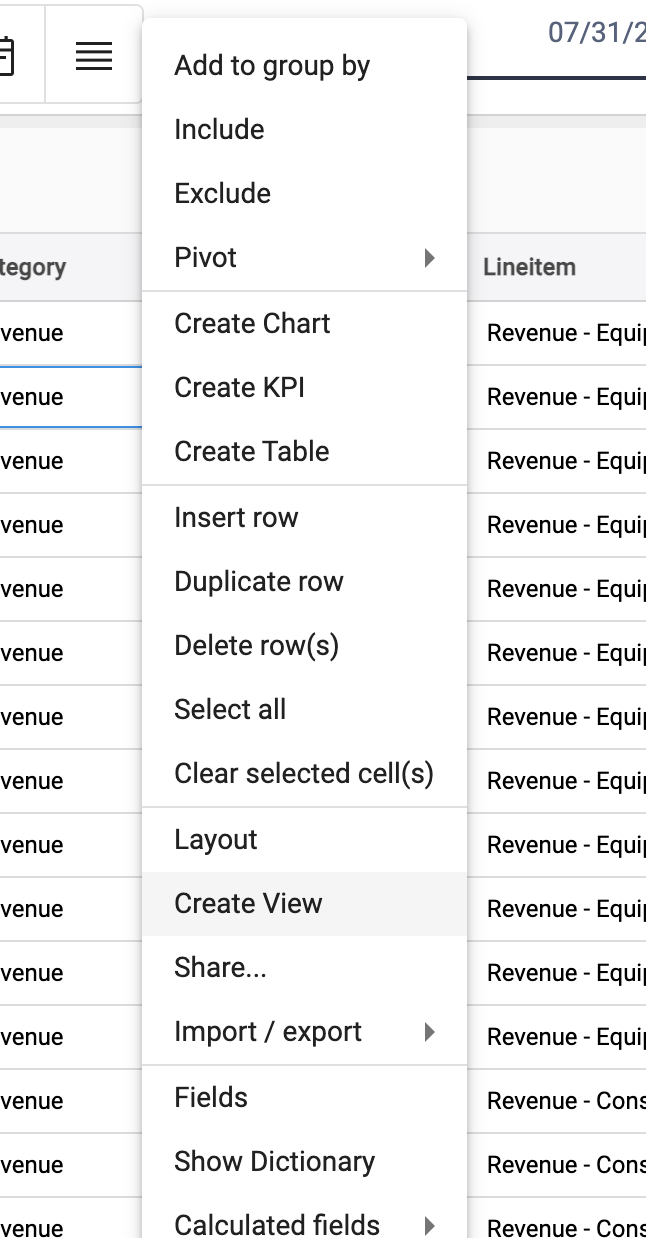
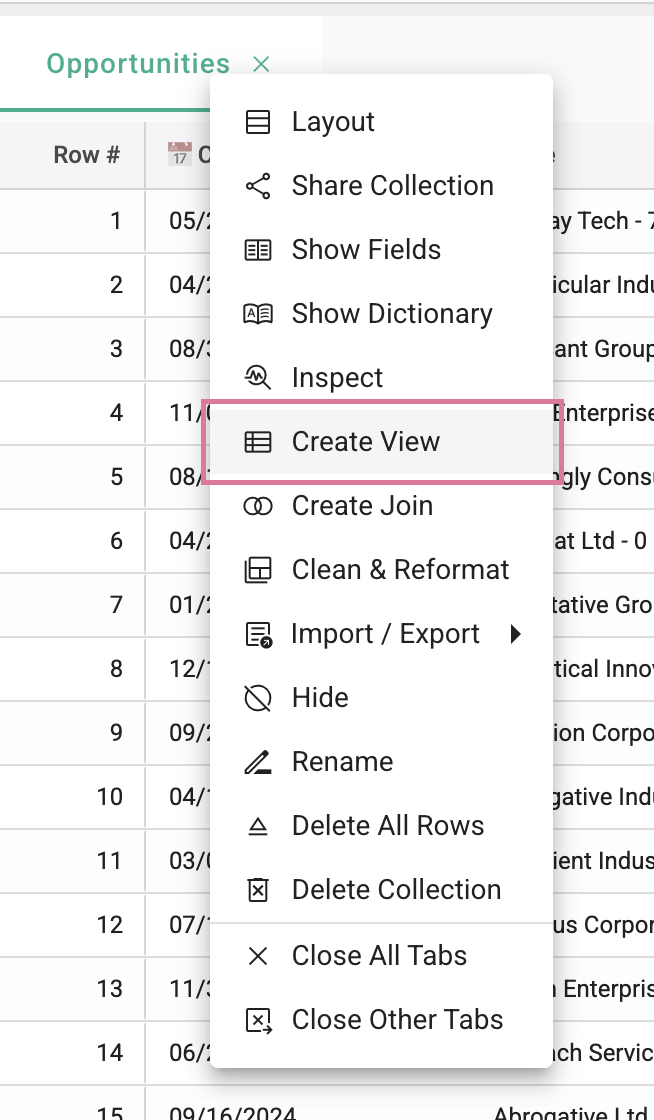
updated input view

diff --git a/docs/how_to/input_data.md b/docs/how_to/input_data.md
@@ -4,12 +4,12 @@
 
 Views can be used to control which users can view and edit data.
 
-### Create a view:  
+### Create a view  
 In this example, we will create a view where the budget owner can only edit the amount field for the line items they are responsible for.
 
 <img src="../assets/inputingdata_matt01.png"  style="width:800px" class="border"></img>
 
-1. Right-click in the collection and select **Create View**.
+1. Right-click the collection tab and select **Create View**.
 
 <img src="../assets/inputingdata_matt02.png"  style="width:300px" class="border"></img>
 
@@ -38,7 +38,7 @@ In this example, we will create a view where the budget owner can only edit the 
 
 <img src="../assets/inputingdata_matt07.png"  style="width:800px" class="border"></img>
 
-### Impersonate a user to test the view:  
+### Impersonate a user to test the view  
 1. In the administration menu, select **Impersonate User**.
 
 <img src="../assets/inputingdata_matt08.png"  style="width:300px" class="border"></img>
